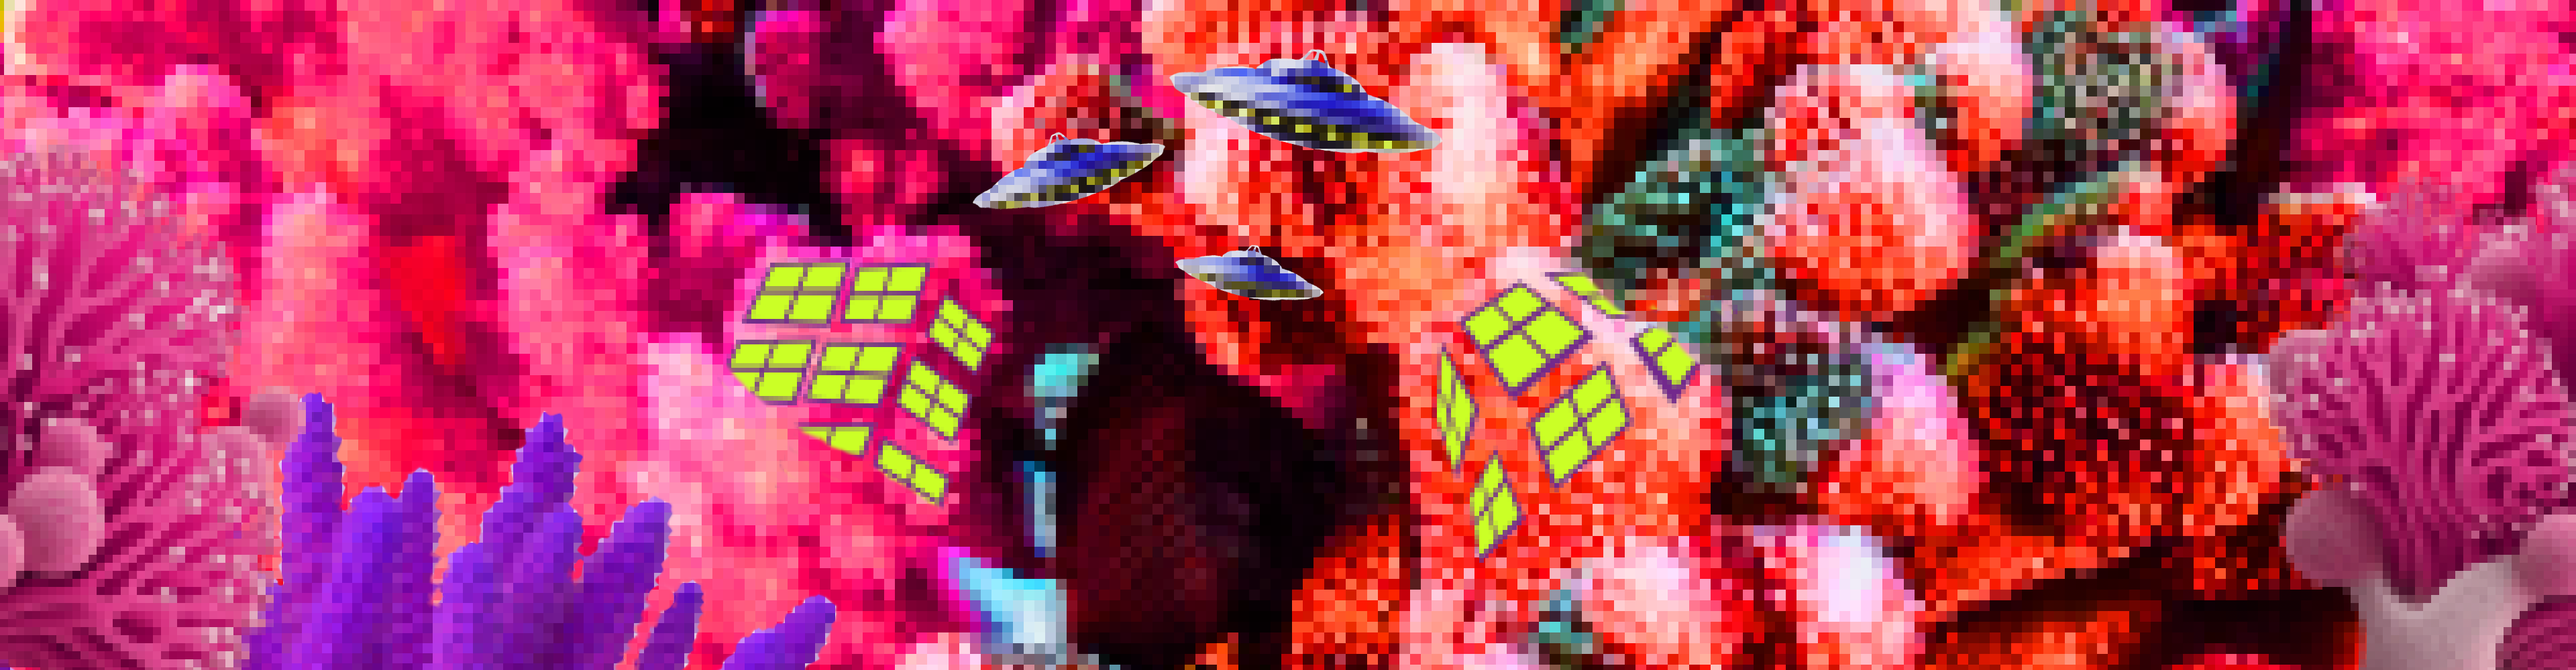
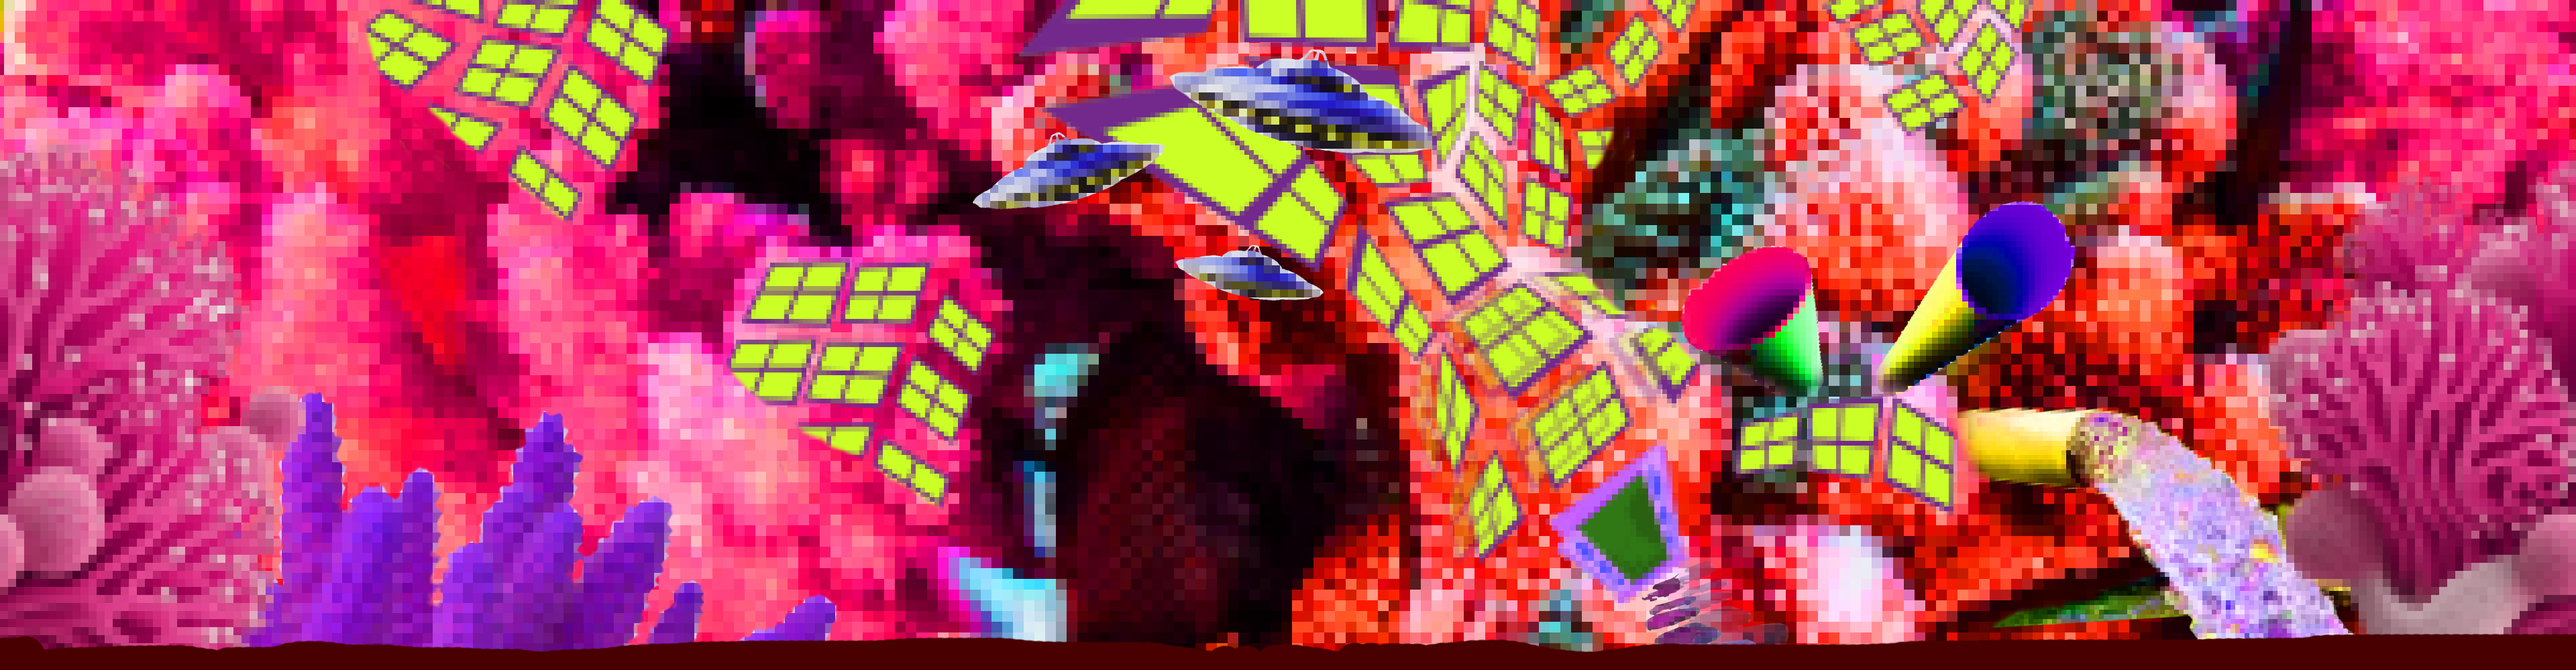
improved background, added menu but the coins are stacking up now

Changed region(s): [[0.0, 0.0, 1.0, 1.0], [0.125, 0.0, 0.2812, 0.341], [0.6875, 0.0, 0.8125, 0.217]]

diff --git a/index.js b/index.js
@@ -12,10 +12,11 @@ function newImage(url) {
 }
 
 const player = newImage("assets/brain-right.png");
+player.style.display = "hidden";
 const floor = document.getElementById("floor");
 let score = 0; //set score to 0 at start
 const coinSound = new Audio("assets/alarm shortencoin-get.wav");
-coinSound.volume = 1; // Set the volume to 50%
+coinSound.volume = 0.5; // Set the volume to 50%
 
 let isJumping = false;
 let isCrouching = false;
@@ -35,6 +36,15 @@ document.addEventListener("keydown", (event) => {
       isJumping = true;
       jump();
     }
+  } else if (event.key === 'e') {
+    // 'w' key or spacebar for jumping
+    gameStart = true;
+    document.getElementById("menu").style.display = "none";
+    player.style.display = 'visible';
+    menuStart();
+    currentTime = 0 ;
+    elapsedTime = 0 ;
+    requestAnimationFrame(update);
   } else if (event.key === "s") {
     // 's' for crouching
 
@@ -266,6 +276,18 @@ const coin20 = new Coin(64000, 500);
 const coin21 = new Coin(64500, 600);
 const coin22 = new Coin(68000, 500);
 
+//a menu where they have to press enter before the update function (gameloop) starts
+
+function menuStart() {
+  document.addEventListener("keydown", (event) => {
+    if (event.key === "Enter") {
+      // 'w' key or spacebar for jumping
+      gameStart = true;
+      ocument.getElementById("menu").style.display = "none";
+    }
+  });
+}
+
 // Update loop to move the coin
 function update(currentTime) {
   // Move coin1
@@ -459,7 +481,7 @@ function update(currentTime) {
   requestAnimationFrame(update);
 }
 // Start the update loop
-requestAnimationFrame(update);
+
 
 // }) else (!isLoaded) {
 //  display.canvas1 = 'visible'

diff --git a/styles.css b/styles.css
@@ -14,7 +14,7 @@ body, html {
   background: url("assets/JS Game background v1.png") repeat-x;
     height: 1000px;
     width: 7680px;
-    animation: slide 5s linear infinite; /* Adjust animation duration as needed */
+    animation: slide 7s linear infinite; /* Adjust animation duration as needed */
 }
 @keyframes slide {
   0% {
@@ -46,6 +46,7 @@ body, html {
   height: 200px;
   bottom: 0;
   left: 50px; /* Initial position */
+  display: none;
 }
 
 #floor {
@@ -69,20 +70,37 @@ body, html {
 }
 
 #score {
-  display:flex;
+  display: flex;
   padding: 10px;
   -webkit-text-stroke: black 2px;
   justify-content: space-around;
   align-items: center;
-  position: absolute;
+  position: fixed;
   top: 0px;
   left: 20px;
   color: white;
   font-size: 28px;
   font-family: Arial, sans-serif;
+  border-radius: 25px solid black;
 }
 
 #score-value {
   font-size: 58px;
   font-family: Arial, sans-serif;
+}
+
+#menu {
+  display: block;
+  margin-left: auto;
+  margin-right: auto;
+  background-color: papayawhip;
+  width: 40%;
+  flex-direction: column;
+  height: 40%;
+  padding: 20%
+}
+
+.menu-items {
+  display: flex;
+  flex-direction: column;
 }

diff --git a/index.html b/index.html
@@ -11,6 +11,11 @@
   <div class='scrolling-image-container'></div>
   <div id="background"></div> 
   </div>
+  <div id="menu">
+    <h1 id="welcome" class="menu-items">Welcome to Seratonin Sprint</h1>
+    <h2 id="instructions" class="menu-items">Use wasd to move</h2>
+    <h2 id="e-to-start" class="menu-items">press "e" to start grabbing coins!</h2>
+  </div>
   <div id="game-container">
     <div id="player"></div>
     <div id="floor"></div>
